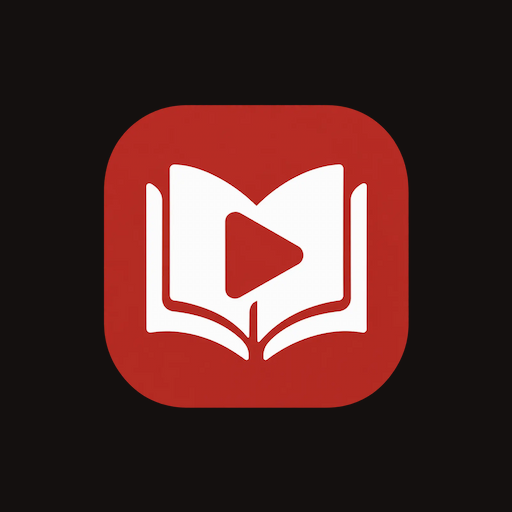
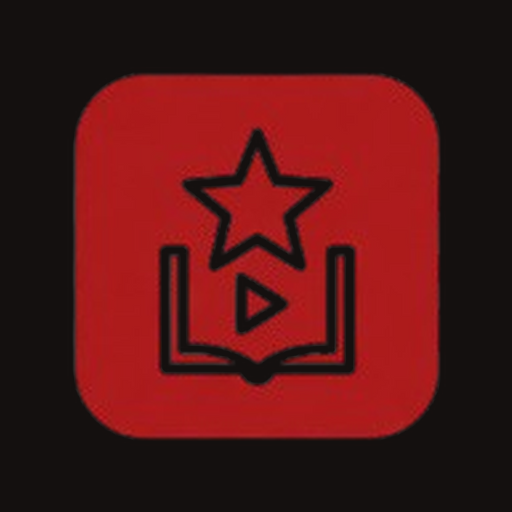
Rebrand from Anivio to Starotaku
anivio.vercel.app was taken, forcing a second rebrand (myanilist ->
Anivio -> Starotaku). Updates app metadata, UI copy, PWA manifest,
Android app name/strings, User-Agent header, docs, and package name.
Also swaps in the new Starotaku logo/brand mark and regenerates all
PWA/Android icon assets from it via pnpm generate:icons.

The Android package ID (to.myanilist.app) and keystore alias
(myanilist) are kept unchanged, consistent with the prior rebrand,
since changing them would create a new Play Store listing.

diff --git a/public/offline.html b/public/offline.html
@@ -3,7 +3,7 @@
   <head>
     <meta charset="utf-8" />
     <meta name="viewport" content="width=device-width, initial-scale=1" />
-    <title>You're offline · Anivio</title>
+    <title>You're offline · Starotaku</title>
     <link rel="icon" href="/logo.webp" />
     <script>
       (function () {
@@ -85,7 +85,7 @@
   <body>
     <img src="/logo.webp" alt="" />
     <h1>You're offline</h1>
-    <p>Anivio needs an internet connection to load your lists, search, and browse anime and manga.</p>
+    <p>Starotaku needs an internet connection to load your lists, search, and browse anime and manga.</p>
     <button onclick="location.reload()" type="button">Try again</button>
   </body>
 </html>

diff --git a/src/components/Footer.tsx b/src/components/Footer.tsx
@@ -2,7 +2,7 @@ export function Footer() {
   return (
     <footer className="hidden border-t border-border py-6 text-center text-xs leading-relaxed text-muted lg:block">
       <p className="mx-auto max-w-md px-4">
-        Anivio is an unofficial client built on top of the MyAnimeList API. Anime and manga data © MyAnimeList.
+        Starotaku is an unofficial client built on top of the MyAnimeList API. Anime and manga data © MyAnimeList.
       </p>
       <p className="mt-1.5 text-muted/70">Created by Dark-in-Star</p>
     </footer>

diff --git a/src/components/NavBar.tsx b/src/components/NavBar.tsx
@@ -43,7 +43,7 @@ export function NavBar({
             isMyList && "max-sm:absolute max-sm:left-1/2 max-sm:top-1/2 max-sm:-translate-x-1/2 max-sm:-translate-y-1/2",
           )}
         >
-          <Image src="/brand.webp" alt="Anivio" width={707} height={353} priority className="h-10 w-auto sm:h-12" />
+          <Image src="/brand.webp" alt="Starotaku" width={707} height={353} priority className="h-10 w-auto sm:h-12" />
         </Link>
 
         <nav className="hidden flex-1 items-center justify-center gap-1 lg:flex">

diff --git a/src/app/page.tsx b/src/app/page.tsx
@@ -104,7 +104,7 @@ export default function Home() {
             <h1
               className={`${heroFont.className} text-4xl font-extrabold text-white drop-shadow-lg sm:text-6xl md:text-7xl`}
             >
-              Anivio
+              Starotaku
             </h1>
             <p
               className={`${heroFont.className} max-w-full text-nowrap text-sm font-semibold text-white/90 drop-shadow sm:text-xl md:text-2xl`}

diff --git a/src/app/manifest.ts b/src/app/manifest.ts
@@ -3,8 +3,8 @@ import type { MetadataRoute } from "next";
 export default function manifest(): MetadataRoute.Manifest {
   return {
     id: "/",
-    name: "Anivio",
-    short_name: "Anivio",
+    name: "Starotaku",
+    short_name: "Starotaku",
     description: "Browse, search, stream, and track anime and manga using the MyAnimeList API.",
     start_url: "/",
     scope: "/",

diff --git a/src/lib/anilist.ts b/src/lib/anilist.ts
@@ -9,7 +9,7 @@ const ANILIST_API_URL = "https://graphql.anilist.co";
 const ANILIST_HEADERS = {
   "Content-Type": "application/json",
   Accept: "application/json",
-  "User-Agent": "Anivio/1.0 (+https://anivio.vercel.app)",
+  "User-Agent": "Starotaku/1.0 (+https://starotaku.vercel.app)",
 } as const;
 
 const NEXT_AIRING_EPISODE_QUERY = `

diff --git a/src/app/layout.tsx b/src/app/layout.tsx
@@ -21,8 +21,8 @@ const geistMono = Geist_Mono({
 
 export const metadata: Metadata = {
   title: {
-    default: "Anivio",
-    template: "%s · Anivio",
+    default: "Starotaku",
+    template: "%s · Starotaku",
   },
   description: "Browse, search, stream, and track anime and manga using the MyAnimeList API.",
   icons: {

diff --git a/public/sw.js b/public/sw.js
@@ -1,4 +1,4 @@
-const OFFLINE_CACHE = "anivio-offline-v1";
+const OFFLINE_CACHE = "starotaku-offline-v1";
 const OFFLINE_URL = "/offline.html";
 
 self.addEventListener("install", (event) => {

diff --git a/README.md b/README.md
@@ -1,25 +1,25 @@
 <div align="center">
 
-<img src="public/brand.webp" alt="Anivio" width="320" />
+<img src="public/brand.webp" alt="Starotaku" width="320" />
 
 ### Your anime and manga life, in one place.
 
 Discover what's next, track what you're watching, and jump straight into an episode —
 all wrapped around your real MyAnimeList account.
 
-[![Live Demo](https://img.shields.io/badge/Live%20Demo-anivio.vercel.app-b91c1c?logo=vercel&logoColor=white)](https://anivio.vercel.app/)
+[![Live Demo](https://img.shields.io/badge/Live%20Demo-starotaku.vercel.app-b91c1c?logo=vercel&logoColor=white)](https://starotaku.vercel.app/)
 [![MyAnimeList API](https://img.shields.io/badge/Powered%20by-MyAnimeList-2E51A2?logo=myanimelist&logoColor=white)](https://myanimelist.net/apiconfig/references/api/v2)
 
-[Try it now](https://anivio.vercel.app/) · [Features](#features) · [Get Started](#getting-started) · [Android App](#android-app-trusted-web-activity)
+[Try it now](https://starotaku.vercel.app/) · [Features](#features) · [Get Started](#getting-started) · [Android App](#android-app-trusted-web-activity)
 
 </div>
 
 ---
 
-## Why Anivio
+## Why Starotaku
 
 Most anime trackers make you choose: a clean list manager with no discovery, or a discovery
-site that can't touch your list. Anivio does both, on top of the account you already have on
+site that can't touch your list. Starotaku does both, on top of the account you already have on
 MyAnimeList — no new sign-up, no second source of truth, no data silo.
 
 ## Features
@@ -45,7 +45,7 @@ MyAnimeList — no new sign-up, no second source of truth, no data silo.
 
 ### 🔐 Actually yours
 - Sign in with your real MyAnimeList account (OAuth2) — every visitor gets their own session,
-  never a shared login, and Anivio never sees your password
+  never a shared login, and Starotaku never sees your password
 
 ### 🎨 Built to feel native
 - Light and dark themes
@@ -83,7 +83,7 @@ with Tailwind CSS v4 and Radix UI, talking directly to the [MyAnimeList API v2](
 
 ## Android App (Trusted Web Activity)
 
-Anivio ships as a real Android app via a [Trusted Web Activity](https://developer.chrome.com/docs/android/trusted-web-activity/) (TWA) — Chrome renders the actual production site (`https://anivio.vercel.app/`) full-screen inside a thin native wrapper (`android/`, using [`androidbrowserhelper`](https://github.com/GoogleChrome/android-browser-helper)). It is **not** a WebView wrapper and does **not** bundle a copy of the app — the Android project has no business logic of its own, so the site keeps working (and updating) exactly as it does in a browser.
+Starotaku ships as a real Android app via a [Trusted Web Activity](https://developer.chrome.com/docs/android/trusted-web-activity/) (TWA) — Chrome renders the actual production site (`https://starotaku.vercel.app/`) full-screen inside a thin native wrapper (`android/`, using [`androidbrowserhelper`](https://github.com/GoogleChrome/android-browser-helper)). It is **not** a WebView wrapper and does **not** bundle a copy of the app — the Android project has no business logic of its own, so the site keeps working (and updating) exactly as it does in a browser.
 
 ### A. Required tools
 
@@ -93,8 +93,8 @@ Anivio ships as a real Android app via a [Trusted Web Activity](https://develope
 
 ### B. Package / application ID
 
-- Package ID: **`to.myanilist.app`** (set in `android/app/build.gradle`'s `namespace`/`applicationId`, `android/twa-manifest.json`, and `public/.well-known/assetlinks.json`). Keep all three in sync if you ever change it. Kept as-is from this project's original name despite the app-facing rebrand to Anivio — changing it would create a new Play Store listing rather than updating the existing one.
-- App name: **Anivio** (`android/app/src/main/res/values/strings.xml`).
+- Package ID: **`to.myanilist.app`** (set in `android/app/build.gradle`'s `namespace`/`applicationId`, `android/twa-manifest.json`, and `public/.well-known/assetlinks.json`). Keep all three in sync if you ever change it. Kept as-is from this project's original name despite the app-facing rebrands (first to Anivio, now to Starotaku) — changing it would create a new Play Store listing rather than updating the existing one.
+- App name: **Starotaku** (`android/app/src/main/res/values/strings.xml`).
 
 ### C. Create the release signing key
 
@@ -107,7 +107,7 @@ keytool -genkeypair -v -storetype PKCS12 \
   -keyalg RSA -keysize 2048 -validity 10000
 ```
 
-The alias stays `myanilist` (this project's original name) even after the app-facing rebrand to Anivio — it's just a local keystore label, not user-visible, and renaming it would require re-signing.
+The alias stays `myanilist` (this project's original name) even after the app-facing rebrands (first to Anivio, now to Starotaku) — it's just a local keystore label, not user-visible, and renaming it would require re-signing.
 
 ```bash
 ```
@@ -145,8 +145,8 @@ Already scaffolded at `public/.well-known/assetlinks.json` with the correct pack
 It's a normal static file under `public/`, so it ships automatically with every deploy — no extra Vercel configuration needed. After deploying, confirm:
 
 ```bash
-curl -i https://anivio.vercel.app/.well-known/assetlinks.json
-curl -i https://anivio.vercel.app/manifest.webmanifest
+curl -i https://starotaku.vercel.app/.well-known/assetlinks.json
+curl -i https://starotaku.vercel.app/manifest.webmanifest
 ```
 
 Both should return `200` (verified locally against a production build — `pnpm build && pnpm start` — before this was ever pushed).
@@ -173,7 +173,7 @@ Output: `android/app/build/outputs/bundle/release/app-release.aab`. Requires `an
 
 ### K. Upload to Google Play Console
 
-1. [Create an app](https://play.google.com/console) if you haven't already, using the same package ID (`to.myanilist.app`) — Anivio is the display name; the package ID stays as originally registered.
+1. [Create an app](https://play.google.com/console) if you haven't already, using the same package ID (`to.myanilist.app`) — Starotaku is the display name; the package ID stays as originally registered.
 2. *Release → Production* (or a testing track first) → **Create new release** → upload `app-release.aab`.
 3. Enable **Play App Signing** when prompted (recommended).
 4. Fill in the store listing — you'll need a **512×512 icon** (`android/store-icon-512.png`, generated by `pnpm generate:icons`), a **1024×500 feature graphic**, and **phone screenshots** (not generated here — capture these from a device/emulator; they're marketing assets, out of scope for this change).
@@ -199,5 +199,5 @@ All of the above are already covered by `.gitignore` / `android/.gitignore` — 
 ---
 
 <div align="center">
-<sub>Anivio is an unofficial client. Anime and manga data © <a href="https://myanimelist.net">MyAnimeList</a>. Not affiliated with MyAnimeList.</sub>
+<sub>Starotaku is an unofficial client. Anime and manga data © <a href="https://myanimelist.net">MyAnimeList</a>. Not affiliated with MyAnimeList.</sub>
 </div>

diff --git a/AGENTS.md b/AGENTS.md
@@ -8,13 +8,13 @@ This block is written and re-added by `next dev` — verify at `node_modules/nex
 
 <!-- END:nextjs-agent-rules -->
 
-# Anivio Web — Agent Guide
+# Starotaku Web — Agent Guide
 
 ## What this is
 
 A Next.js (App Router, TypeScript) client for browsing, searching, streaming, and tracking
-anime/manga through the official MyAnimeList API v2. See `README.md` for the user-facing feature list,
-screenshots, and tech-stack table — this file is for agents working *in* the codebase.
+anime/manga through the official MyAnimeList API v2. See `README.md` for the user-facing feature
+list — this file is for agents working *in* the codebase.
 
 **There is no separate backend.** `src/lib/api.ts` and `src/lib/actions.ts` call
 `https://api.myanimelist.net/v2` directly from server-only code. Do not reintroduce a proxy
